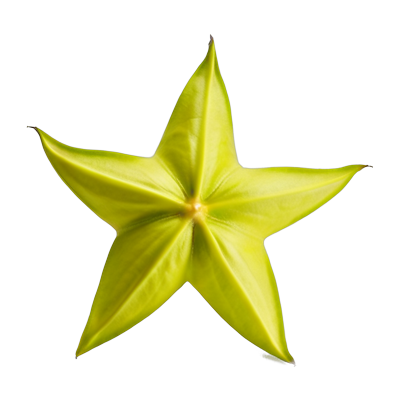
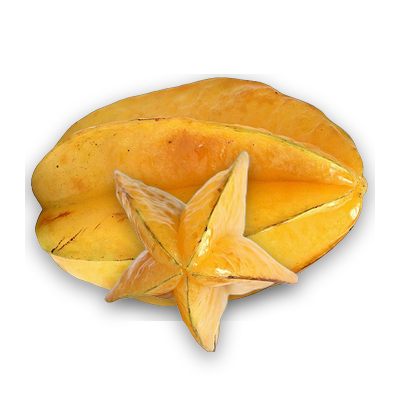
楊桃改用真實照片（一顆平躺＋大切片置中偏下，透明底）＋頁尾標註 CC BY-SA 來源

diff --git a/t/水果.html b/t/水果.html
@@ -118,7 +118,7 @@ td.zcol2,td.zcol3{box-shadow:2px 0 0 #fff!important}
 tr:nth-child(even) td.zcol2,tr:nth-child(even) td.zcol3{box-shadow:2px 0 0 #f7fcf8!important}
 
 </style></head>
-<body><div class="wrap"><a class="back" href="../index.html">← 回語言對照表</a><h1>水果</h1><div class="sub">點 🔊 聽發音 · 台語／客語若系統沒語音會用拼音朗讀 · 表格可左右滑：<b>圖片＋繁體中文固定</b>不動<br>語言分兩大類，<b>右上角可切換</b>：中華語言（簡體中文·台語·客語）／常見語言（美式英文·英式英文·日文·韓文）</div><div id="catbar"></div><div id="box"><div class="status">載入中…</div></div><div class="note">資料來源：原本的 Google 試算表（即時讀取）</div></div><script>
+<body><div class="wrap"><a class="back" href="../index.html">← 回語言對照表</a><h1>水果</h1><div class="sub">點 🔊 聽發音 · 台語／客語若系統沒語音會用拼音朗讀 · 表格可左右滑：<b>圖片＋繁體中文固定</b>不動<br>語言分兩大類，<b>右上角可切換</b>：中華語言（簡體中文·台語·客語）／常見語言（美式英文·英式英文·日文·韓文）</div><div id="catbar"></div><div id="box"><div class="status">載入中…</div></div><div class="note">資料來源：原本的 Google 試算表（即時讀取）</div><div class="note">圖片來源：楊桃：SMasters / Wikimedia Commons（CC BY-SA 3.0）</div></div><script>
 // 語言名稱顯示標題（括號內用該語言自己的寫法）— 孝瓏 2026-09-16「頂端請加()」
 const LANG_LABEL={'簡體中文':'簡體中文（简体中文）',
  '美式英文':'美式英文（American English）',
